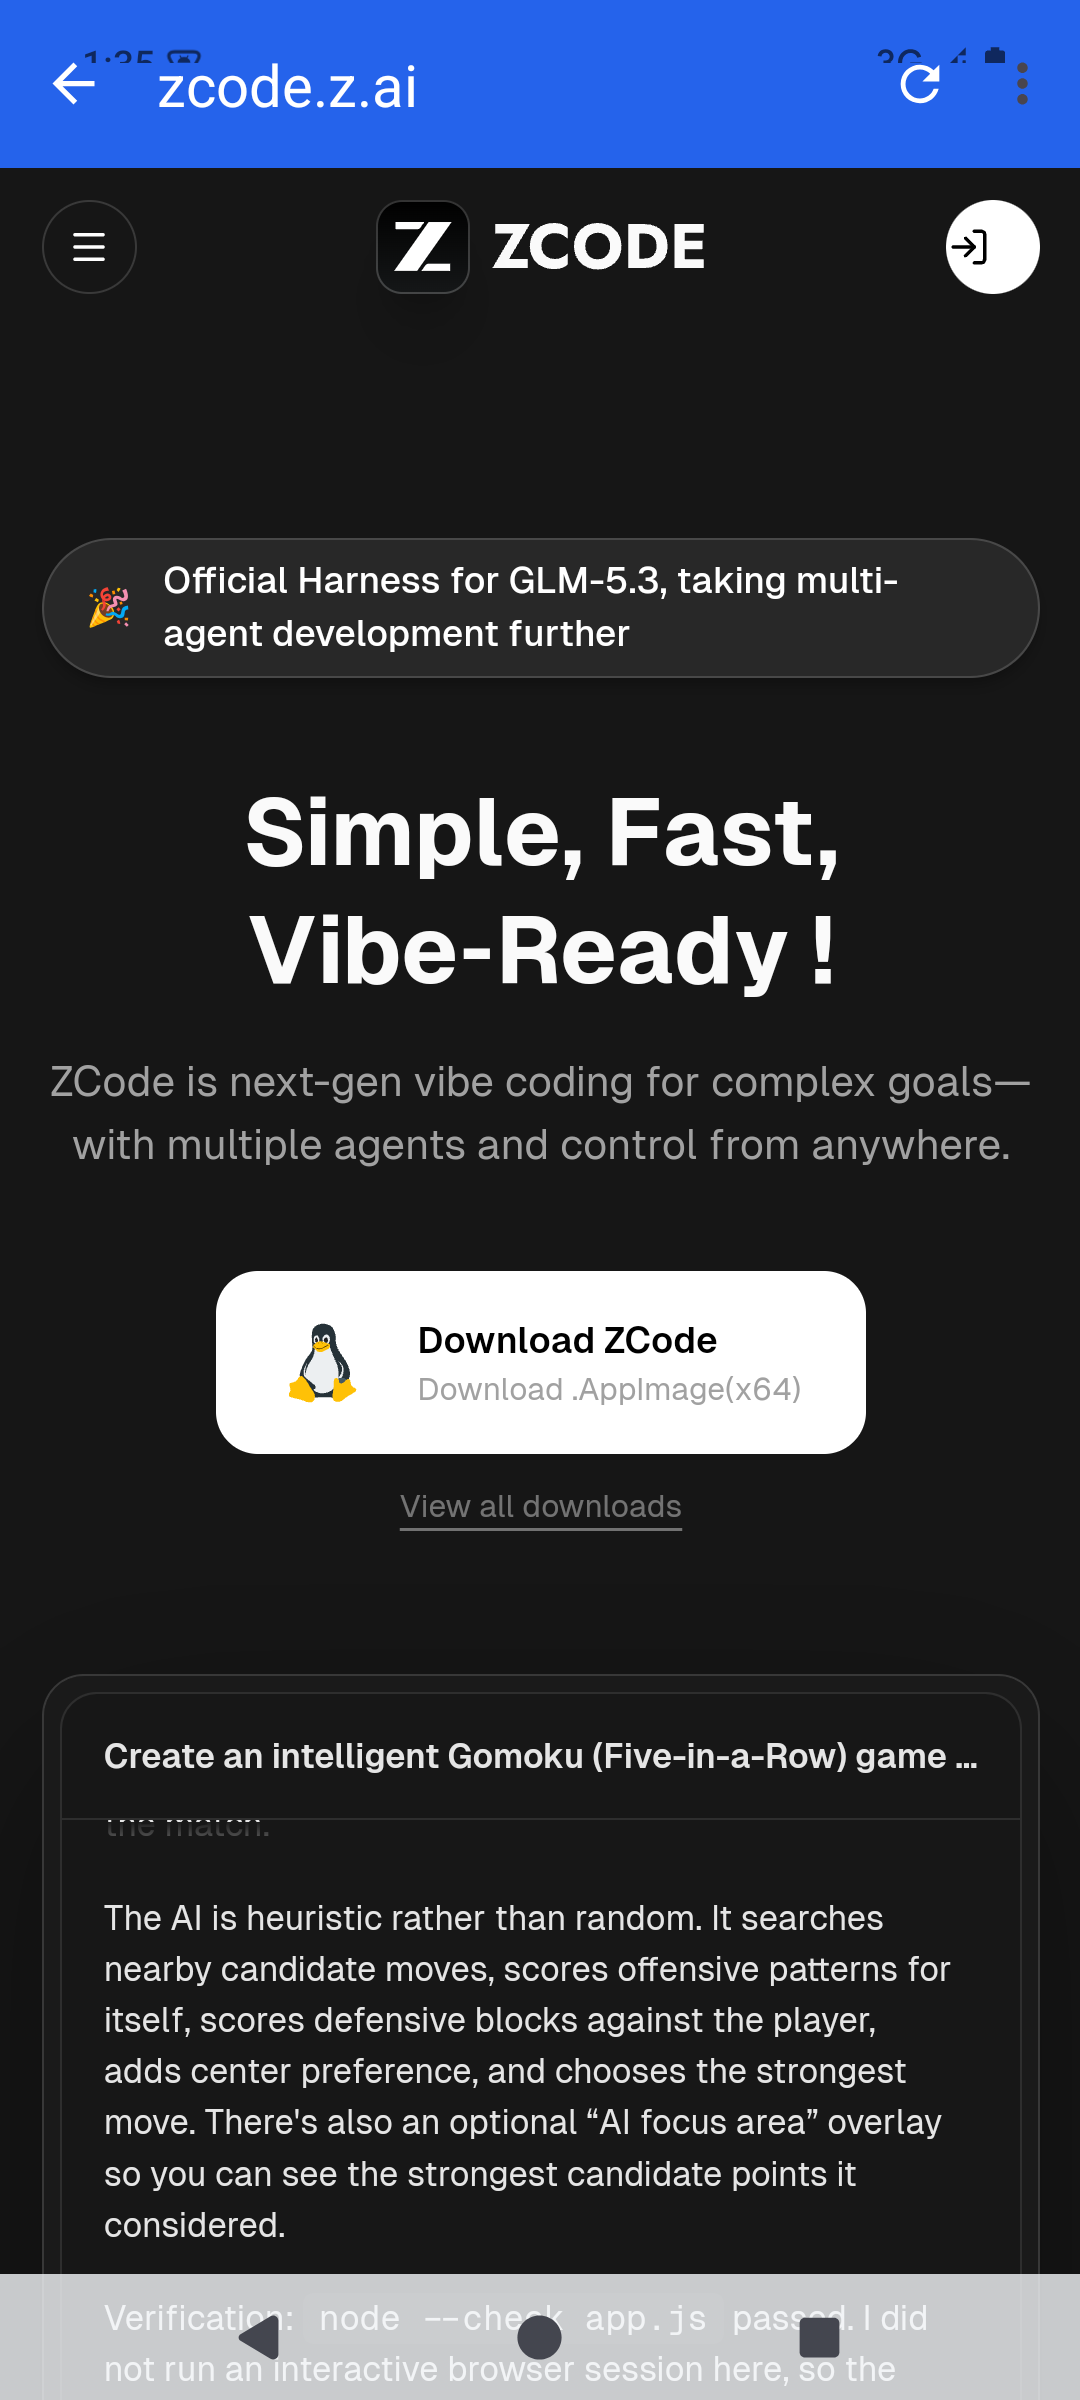
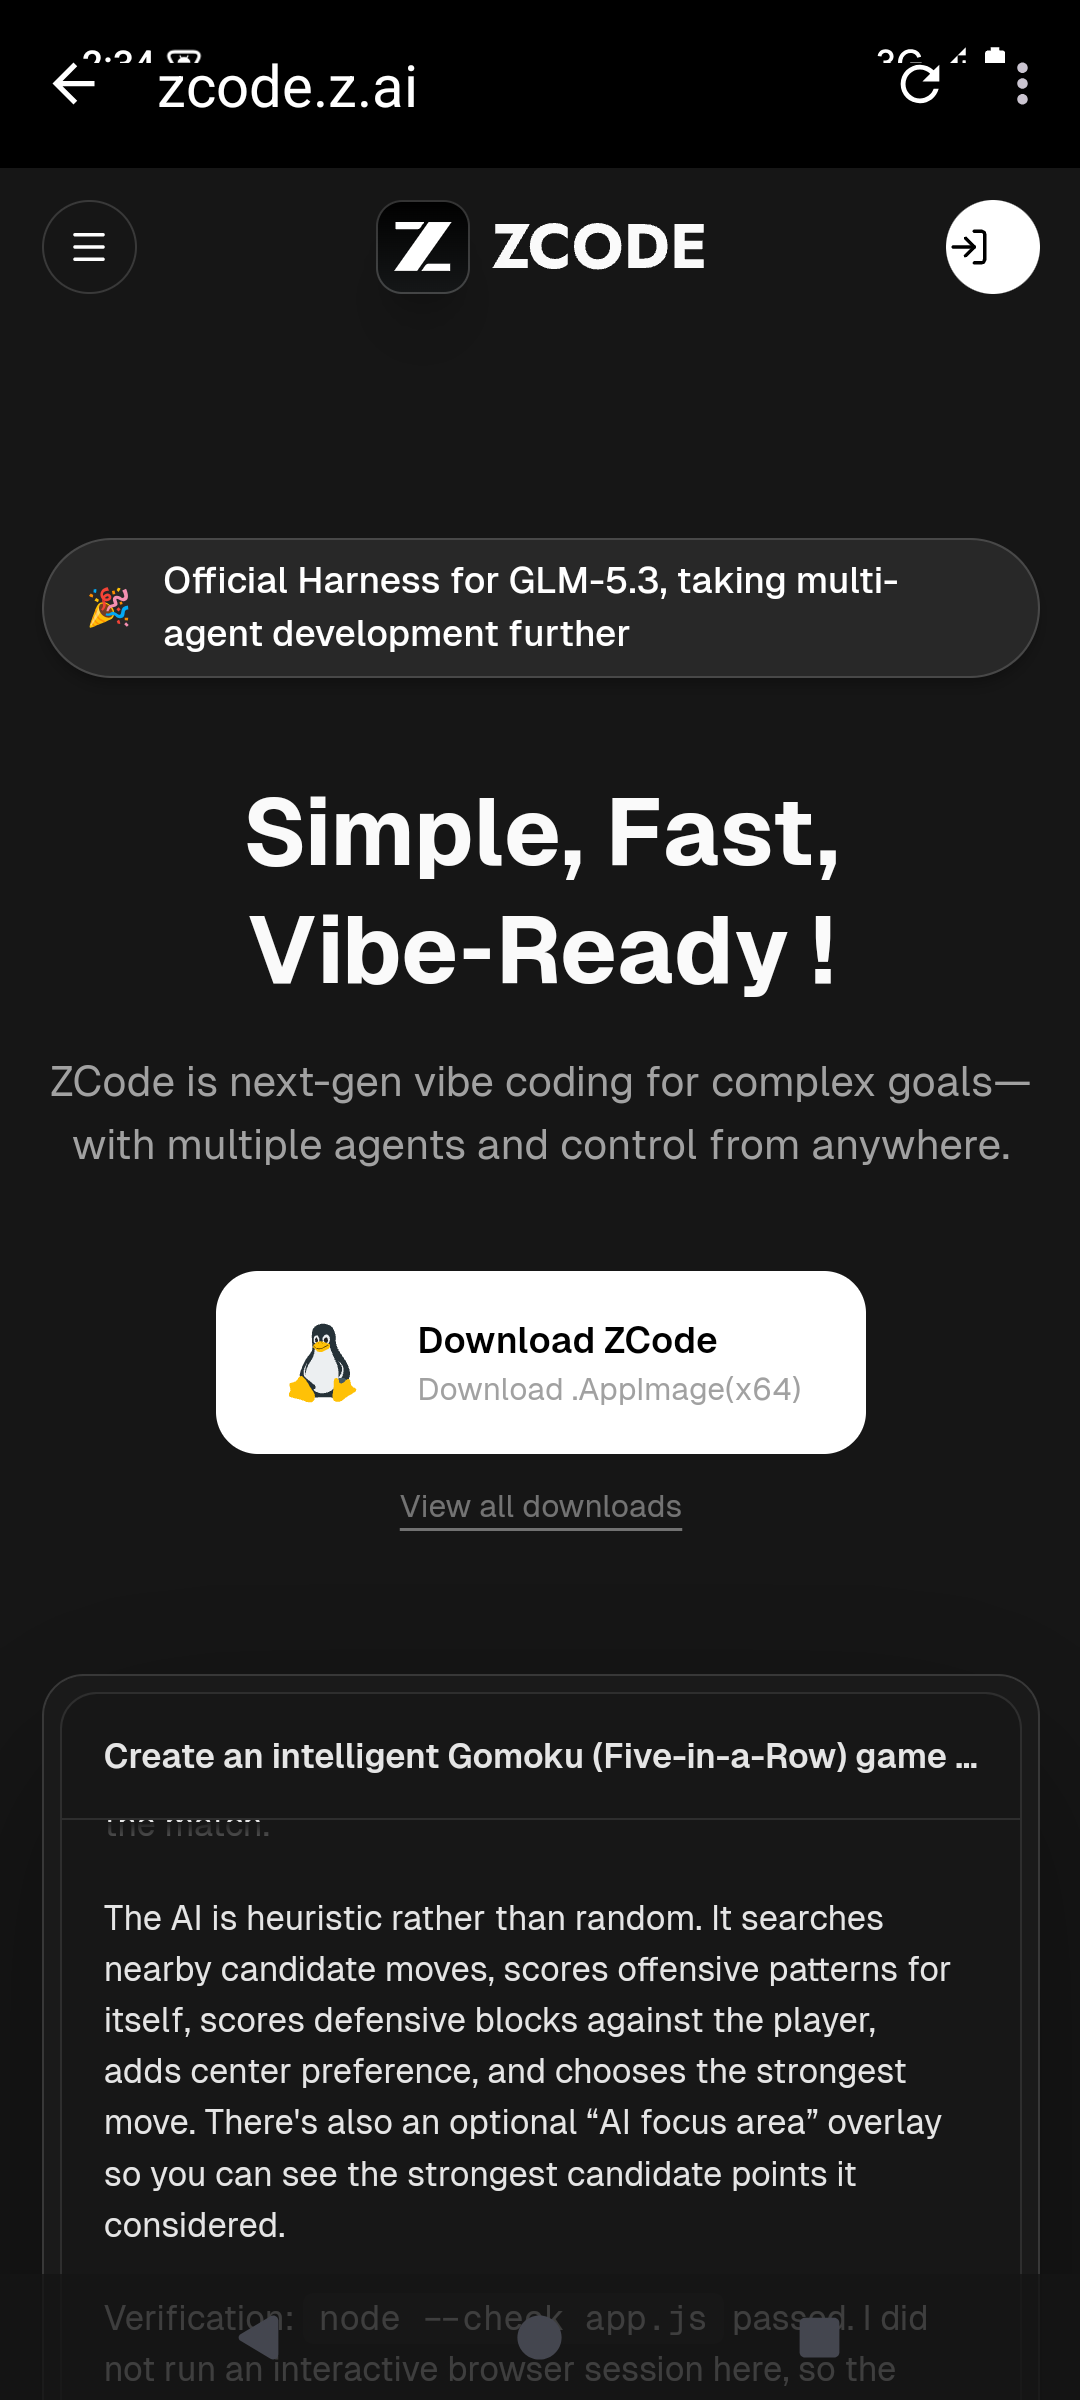
feat: dark theme, portrait scanner, stay-on-connect back behavior (v1.1.0)
- Switch UI to black/dark theme (pure black bars, dark gray background, ZCode-like)
- Force QR scanner to portrait orientation
- Back key now keeps the remote page: moves task to background instead of exiting;
  use the top-left arrow to leave the connection
- Empty-state copy guides users to scan
- Update screenshots and release badge in README

Changed region(s): [[0.0, 0.0, 1.0, 0.0938], [0.0, 0.9375, 1.0, 1.0]]

diff --git a/app/src/main/java/com/zcode/remote/ConnectActivity.kt b/app/src/main/java/com/zcode/remote/ConnectActivity.kt
@@ -57,8 +57,9 @@ class ConnectActivity : AppCompatActivity() {
                 if (webView.canGoBack()) {
                     webView.goBack()
                 } else {
-                    isEnabled = false
-                    onBackPressedDispatcher.onBackPressed()
+                    // 保持当前连接画面：按返回只是退到后台，回来还在远程页；
+                    // 想退出连接请点左上角返回箭头。
+                    moveTaskToBack(true)
                 }
             }
         })

diff --git a/README.md b/README.md
@@ -4,7 +4,7 @@
 >
 > Control your ZCode workspace from your **phone or tablet** — save the link once, connect with one tap, no more scanning a QR code at your desktop every time.
 
-[![Release](https://img.shields.io/badge/Release-v1.0.0-blue)](https://github.com/Deep-AI-Evo/zcode-remote-apk/releases/latest)
+[![Release](https://img.shields.io/github/v/release/Deep-AI-Evo/zcode-remote-apk?label=Release&color=000000)](https://github.com/Deep-AI-Evo/zcode-remote-apk/releases/latest)
 [![License: MIT](https://img.shields.io/badge/License-MIT-yellow.svg)](LICENSE)
 
 ---
